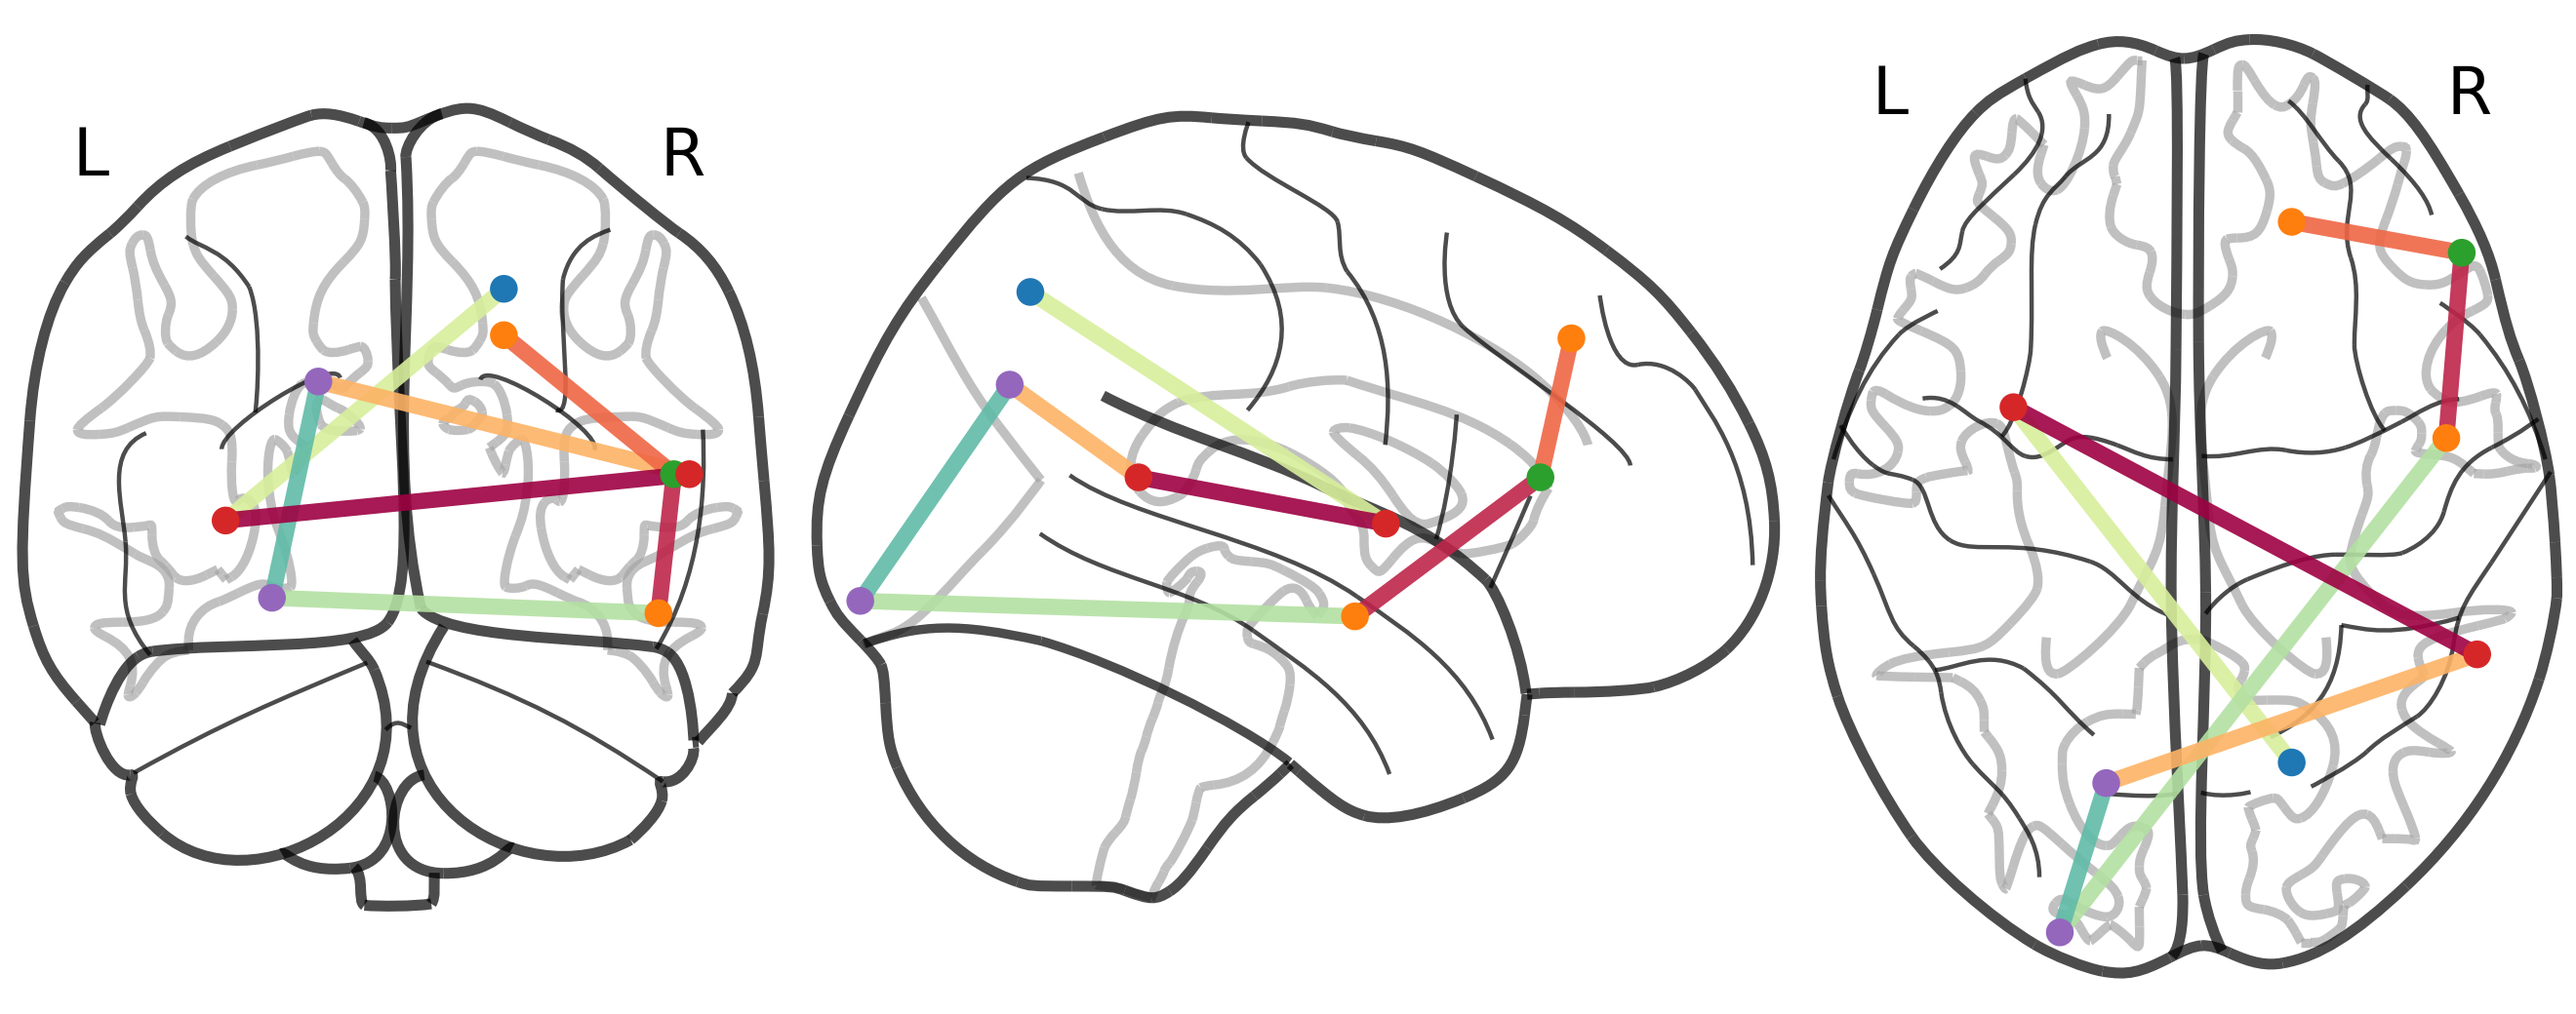
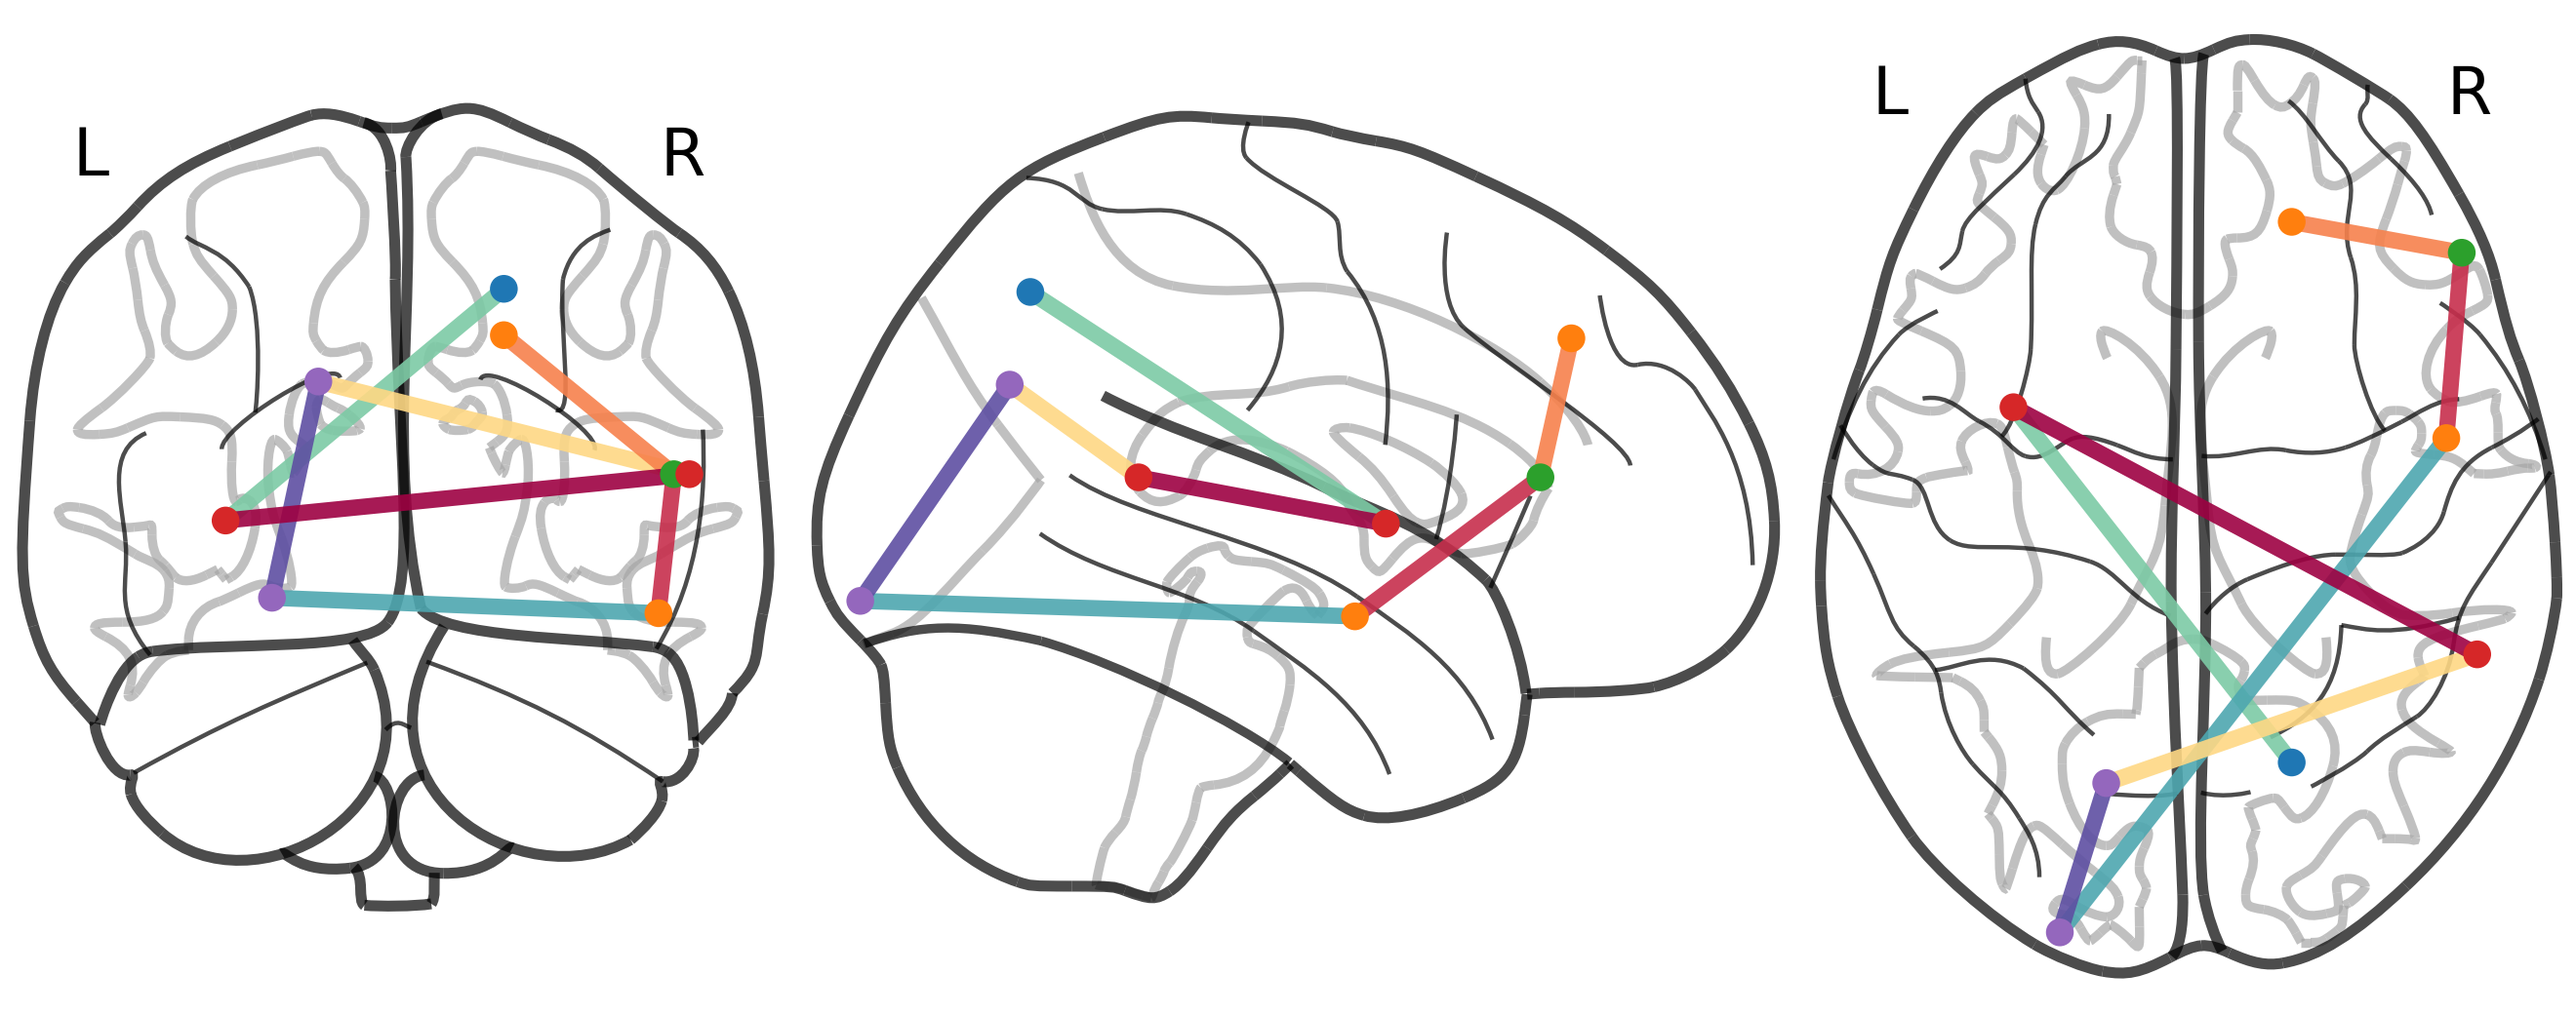
Updated the edge_vmin and edge_vmax for plot_glassbrain to be the lowest and highest values in edge_weights. This parallels the plotting colors used for the chord diagram.

diff --git a/nichord/glassbrain.py b/nichord/glassbrain.py
@@ -14,7 +14,8 @@ def plot_glassbrain(idx_to_label: dict, edges: list,
                     linewidths: Union[None, float, int, list] = 6,
                     alphas: Union[None, float, int, list] = None,
                     network_colors: Union[None, dict] = None,
-                    network_order: Union[list, None] = None,) -> None:
+                    network_order: Union[list, None] = None,
+                    ) -> None:
     """
     Plots the connectome on a brain, where the node colors correspond to the
         ROI's label (specified by idx_to_label). Each edge's color correspond
@@ -77,11 +78,16 @@ def plot_glassbrain(idx_to_label: dict, edges: list,
     node_coords_pruned = [coords[i] for i in nonzero_node_idxs]
     node_colors = [network_colors[idx_to_label[node_i]] for node_i in
                    nonzero_node_idxs]
+
+    edge_vmin = min(edge_weights)
+    edge_vmax = max(edge_weights)
+
     if fp_glass is None:
         cv = plotting.view_connectome(adj, node_coords_pruned, edge_cmap=cmap,
                                       node_color=node_colors,
                                       node_size=node_size,
-                                      linewidth=linewidths, colorbar=False)
+                                      linewidth=linewidths, colorbar=False,
+                                      edge_vmax=edge_vmax, edge_vmin=edge_vmin)
         cv.open_in_browser()
     else:
         plotted_img = \
@@ -91,6 +97,7 @@ def plot_glassbrain(idx_to_label: dict, edges: list,
                                     {'linewidth': linewidths/5,
                                      'alpha': edge_alphas if alphas is None
                                                      else alphas},
-                                    colorbar=False)
+                                    colorbar=False,
+                                    edge_vmax=edge_vmax, edge_vmin=edge_vmin)
         plotted_img.savefig(fp_glass, dpi=400)
         plotted_img.close()

diff --git a/example/example.py b/example/example.py
@@ -4,6 +4,13 @@ from nichord.combine import combine_imgs
 from nichord.coord_labeler import get_idx_to_label
 import matplotlib.pyplot as plt
 
+from nichord.chord import plot_chord
+from nichord.glassbrain import plot_glassbrain
+from nichord.combine import combine_imgs
+from nichord.coord_labeler import get_idx_to_label
+import matplotlib.pyplot as plt
+
+
 # Example 0 described in README.md
 if __name__ == '__main__':
     edges = [(0, 1), (0, 2), (1, 5), (3, 5), (4, 6), (2, 7), (6, 7)]
@@ -27,7 +34,6 @@ if __name__ == '__main__':
 
     fg_combined = r'ex0_combined.png'
     combine_imgs(fp_glass, fp_chord, fg_combined)
-
 
 # Beginning of examples 1 and 2. These examples reflect how NiChord may be used
 #   in a project involving a full connectome's worth of ROIs (here ROIs are

diff --git a/setup.py b/setup.py
@@ -20,7 +20,7 @@ setup(
     description="Creates chord diagrams for connectivity/graph data",
     long_description=desc,
     long_description_content_type="text/markdown",
-    version="v0.0.4",
+    version="v0.0.6",
     packages=["nichord"],
     python_requires=">=3.5",
     url="https://github.com/paulcbogdan/NiChord",

diff --git a/README.md b/README.md
@@ -63,7 +63,7 @@ idx_to_label = {0: 'Visual', 1: 'DMN', 2: 'Visual', 3: 'DMN',
 ```
 
 Each edge may be associated with a weight. Weights are defined as a list of 
-length equal to the number of edges (`edge_weights = None`, then grey edges are.
+length equal to the number of edges (if `edge_weights = None`, then grey edges are.
 plotted).
 
 ```
